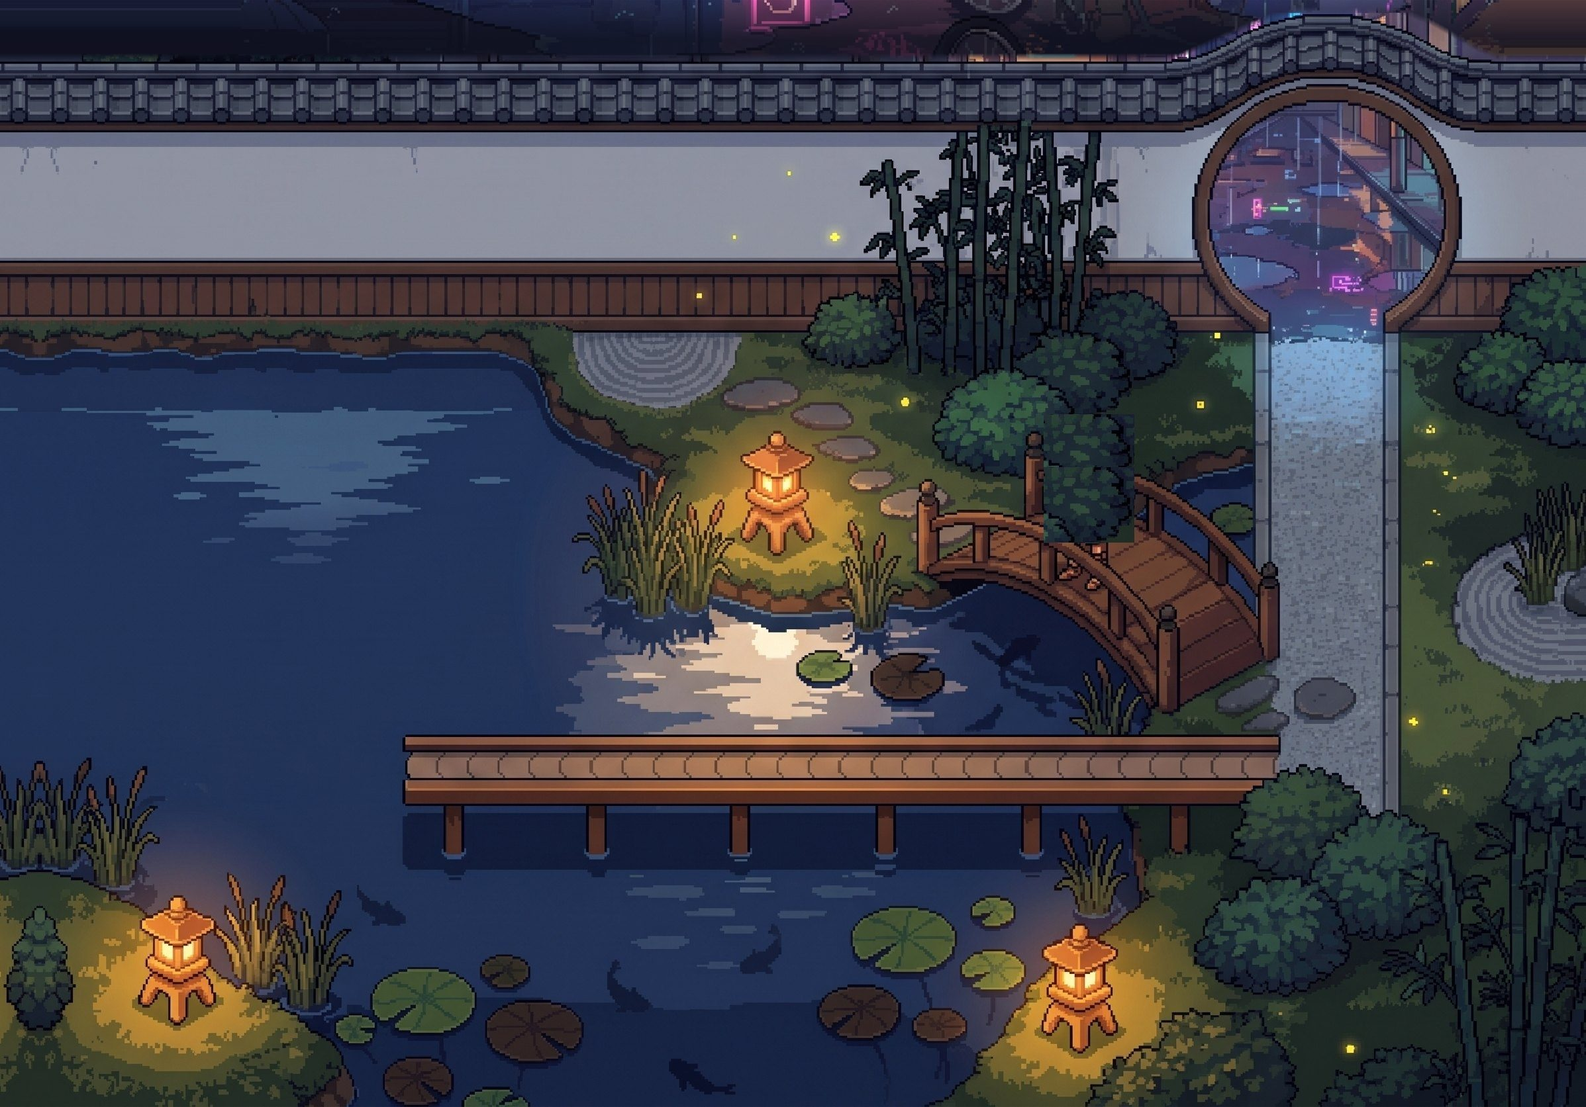
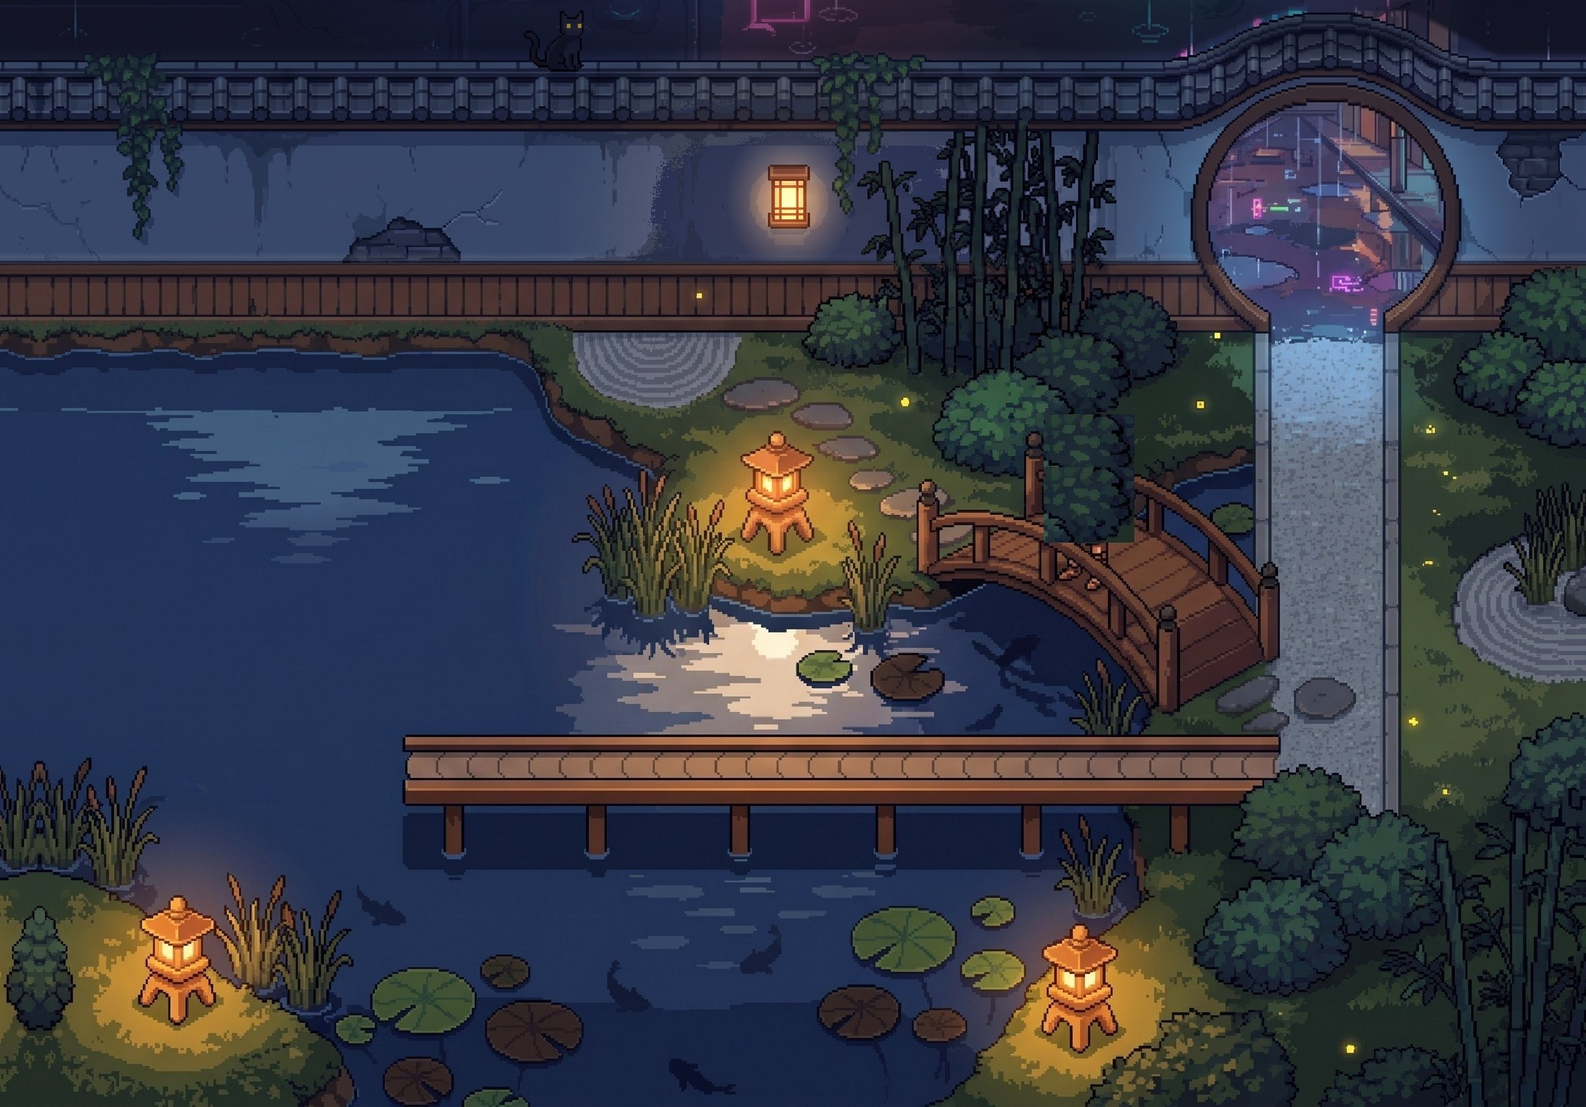
Smooth sushi-cam entry/exit, texture the garden wall, integrate cross-agent fixes

Changed region(s): [[0.0, 0.0, 1.0, 0.2487]]

diff --git a/restaurant/src/transitions/dining-kitchen.ts b/restaurant/src/transitions/dining-kitchen.ts
@@ -1,13 +1,16 @@
-import type { Api, TransitionDef } from "../engine/types";
-import { STAGE_W, STAGE_H } from "../engine/types";
-import { drawPov, ZW0, type Pov } from "./dining-kitchen/pov";
+import type { Api, Camera, TransitionDef } from "../engine/types";
+import { F, WPX, DOOR, drawPov, type Pov } from "./dining-kitchen/pov";
+import { layerCtx, dissolve } from "./dining-kitchen/dissolve";
 
 // dining -> kitchen: the "sushi cam". See dining-kitchen.md.
-//   0.00-0.16  dining camera dips to the belt (zoom toward the doors); POV slides up from below
-//              (camera bolted to a plate, doors ahead)
-//   0.08-0.80  ride at constant speed: plate ahead noses the doors open, they flap
+//   0.00-0.21  one camera: dining zooms onto the kitchen doors while the sushi cam,
+//              locked to the same door rect, cranes down to belt height; a
+//              bottom-first dithered pixel dissolve swaps dining -> POV (0.10-0.21)
+//   0.00-0.80  ride at constant speed: plate ahead noses the doors open, they flap
 //              back, our plate pushes through, kitchen towers over us
-//   0.80-1.00  un-bolt: camera rises, POV slides down out of frame, kitchen zooms out to 1
+//   0.78-1.00  un-bolt: camera rises (belt drops out of frame), a top-first
+//              dithered dissolve reveals the kitchen at the matching zoom (0.83-0.95),
+//              which then pulls back to the observer frame
 
 const smooth = (a: number, b: number, t: number) => {
   const x = Math.max(0, Math.min(1, (t - a) / (b - a)));
@@ -15,21 +18,55 @@ const smooth = (a: number, b: number, t: number) => {
 };
 const lerp = (a: number, b: number, k: number) => a + (b - a) * k;
 
-const T_POV0 = 0.08, T_POV1 = 0.8;
-const ZW_END = -80;
+/** Ride: zw is linear in t (constant speed): ZW_A at t=0 -> ZW_END at T_END. */
+const ZW_A = 283, ZW_END = -80, T_END = 0.8;
+const zwAt = (t: number) => ZW_A + (ZW_END - ZW_A) * (t / T_END);
+
+/** Entry dissolve window and crane height. */
+const IN0 = 0.1, IN1 = 0.21;
+const CRANE = 130;
+/** Exit dissolve window. */
+const OUT0 = 0.83, OUT1 = 0.95;
+
+/** Dining door (stage px in dining.jpg) and its size ratio to the POV door art. */
+const DD = { cx: 1475, top: 205, w: 280 };
+const DOOR_RATIO = (DOOR.x1 - DOOR.x0) / DD.w;
+
+/** Kitchen camera that lines kitchen.jpg up with kitchen-pov.jpg (tub centre-left, Jiro right). */
+const K_MATCH = { zoom: 2.0, cx: 1397, cy: 536 };
 
 export function povAt(t: number): Pov {
-  const k = Math.max(0, Math.min(1, (t - T_POV0) / (T_POV1 - T_POV0)));
-  const zw = ZW0 + (ZW_END - ZW0) * k; // linear: constant riding speed
+  const zw = zwAt(Math.min(t, 0.9));
   // Camera tilt (horizon) is eased; travel is not.
-  const tiltUp = smooth(0, 1, (ZW0 - zw) / (ZW0 - 150));
+  const tiltUp = smooth(0, 1, (300 - zw) / 150);
   const tiltDown = smooth(0, 1, (40 - zw) / 100);
-  const yh = lerp(lerp(707, 880, tiltUp), 566, tiltDown);
+  let yh = lerp(lerp(707, 880, tiltUp), 566, tiltDown);
   const rise = smooth(0, 1, (0 - zw) / 60);
-  const unbolt = smooth(0.76, 0.9, t);
-  const hc = 20 + 9 * rise + 90 * unbolt;
+  const unbolt = smooth(0.76, 0.93, t);
+  let hc = 20 + 9 * rise + 240 * unbolt;
+  // Crane down: extra height, horizon compensated so the door plane holds still
+  // on screen while the near counter and belt swing up from below.
+  const up = CRANE * (1 - smooth(0.02, IN1 + 0.02, t));
+  hc += up;
+  yh -= (up * F) / Math.max(zw, 40);
   return { zw, yh, hc };
 }
+
+/** Dining camera whose kitchen doors sit exactly on the POV's door rect. */
+function diningMatch(p: Pov): Camera {
+  const sc = (WPX * F) / p.zw;
+  const zoom = DOOR_RATIO * sc;
+  const topY = p.yh + ((p.hc - (DOOR.base - DOOR.y0) * WPX) * F) / p.zw;
+  // Door centred (as in the POV) unless that would show past the art's right edge.
+  const cx = Math.min(DD.cx, 1920 - 960 / zoom);
+  const cy = DD.top - (topY - 540) / zoom;
+  return { zoom, cx, cy };
+}
+
+function mixCam(a: Camera, b: Camera, k: number): Camera {
+  return { zoom: lerp(a.zoom ?? 1, b.zoom ?? 1, k), cx: lerp(a.cx ?? 960, b.cx ?? 960, k), cy: lerp(a.cy ?? 540, b.cy ?? 540, k) };
+}
+const ID: Camera = { zoom: 1, cx: 960, cy: 540 };
 
 export const diningKitchen: TransitionDef = {
   from: "dining",
@@ -37,38 +74,29 @@ export const diningKitchen: TransitionDef = {
   length: 2.0,
   route: "Sushi cam: we ride a plate through the swinging kitchen doors and look up at the kitchen from belt height",
   render(g: CanvasRenderingContext2D, t: number, now: number, api: Api) {
-    // The sushi cam slides up from below as we dip onto the belt, and slides
-    // down out of frame as the camera rises back to eye level (no ghosting).
-    const inK = smooth(0.03, 0.16, t), outK = smooth(0.8, 0.95, t);
-    const povY = (1 - inK) * STAGE_H + outK * STAGE_H * 1.12;
-    // 1. Dining: dip toward the belt near the doors.
-    if (t < 0.17) {
-      const k = smooth(0, 0.15, t);
-      if (k <= 0) api.drawScene("dining", g, now);
-      else api.drawScene("dining", g, now, { zoom: 1 + 2.4 * k, cx: lerp(960, 1480, k), cy: lerp(540, 800, k) });
-    }
-    // 2. Kitchen: pull back from belt height to the observer frame.
-    if (t > T_POV1 - 0.02) {
-      const k = smooth(T_POV1 - 0.02, 1, t);
-      if (k >= 1) api.drawScene("kitchen", g, now);
-      else api.drawScene("kitchen", g, now, { zoom: 2.6 - 1.6 * k, cx: lerp(1060, 960, k), cy: lerp(560, 540, k) });
-    }
-    // 3. Sushi cam on top.
-    if (povY < STAGE_H - 0.5) {
-      const p = povAt(t);
-      g.save();
-      if (povY > 0.5) {
-        // Soft shadow along the top edge sells the "camera moving" wipe.
-        const sh = g.createLinearGradient(0, povY - 140, 0, povY);
-        sh.addColorStop(0, "rgba(8,6,5,0)");
-        sh.addColorStop(1, "rgba(8,6,5,.75)");
-        g.fillStyle = sh;
-        g.fillRect(0, povY - 140, STAGE_W, 140);
-        g.beginPath(); g.rect(0, povY, STAGE_W, STAGE_H); g.clip();
-        g.translate(0, Math.round(povY));
+    const p = povAt(t);
+    const kIn = smooth(IN0, IN1, t), kOut = smooth(OUT0, OUT1, t);
+    if (t <= 0) { api.drawScene("dining", g, now); return; }
+    if (t >= 1) { api.drawScene("kitchen", g, now); return; }
+
+    if (kIn < 1) {
+      // Entry: dining camera eases from identity onto the door-matched camera.
+      const cam = mixCam(ID, diningMatch(p), smooth(0, IN0 + 0.02, t));
+      api.drawScene("dining", g, now, cam);
+      if (kIn > 0) {
+        drawPov(layerCtx(), p, now, api);
+        // Bottom first: the belt arrives before the doors change.
+        dissolve(g, kIn, (u, v) => 1 - v * 0.85 - 0.15 * Math.abs(u - 0.5));
       }
-      drawPov(g, p, now, api);
-      g.restore();
+      return;
     }
+    if (kOut <= 0) { drawPov(g, p, now, api); return; }
+    // Exit: POV rising; kitchen revealed top-first at the matching zoom, then pulled back.
+    drawPov(g, p, now, api);
+    const cam = mixCam(K_MATCH, ID, smooth(OUT0 + 0.05, 1, t));
+    const lg = layerCtx();
+    if (kOut >= 1) { api.drawScene("kitchen", g, now, cam); return; }
+    api.drawScene("kitchen", lg, now, cam);
+    dissolve(g, kOut, (u, v) => v * 0.85 + 0.15 * Math.abs(u - 0.5));
   },
 };

diff --git a/restaurant/src/transitions/dining-kitchen/dissolve.ts b/restaurant/src/transitions/dining-kitchen/dissolve.ts
@@ -1,0 +1,72 @@
+import { STAGE_W, STAGE_H } from "../../engine/types";
+
+// Ordered-dither (Bayer 8x8) pixel dissolve. A layer is drawn into an offscreen
+// canvas, masked with chunky dither cells, then composited over the frame.
+// A directional bias makes the dissolve travel (e.g. bottom-first) but the band
+// is wide and dithered, so there is never a straight seam.
+
+const CELL = 6; // stage px per dither cell (roughly the art's pixel size)
+const MW = Math.ceil(STAGE_W / CELL), MH = Math.ceil(STAGE_H / CELL);
+
+const B8: number[] = (() => {
+  // Recursive Bayer construction: 2x2 -> 4x4 -> 8x8.
+  let m = [[0, 2], [3, 1]];
+  while (m.length < 8) {
+    const n = m.length, o: number[][] = [];
+    for (let y = 0; y < n * 2; y++) {
+      o.push([]);
+      for (let x = 0; x < n * 2; x++) {
+        const q = [0, 2, 3, 1][(y >= n ? 2 : 0) + (x >= n ? 1 : 0)];
+        o[y].push(4 * m[y % n][x % n] + q);
+      }
+    }
+    m = o;
+  }
+  return m.flat().map((v) => (v + 0.5) / 64);
+})();
+
+let layer: HTMLCanvasElement | null = null;
+let mask: HTMLCanvasElement | null = null;
+let maskData: ImageData | null = null;
+
+/** Offscreen full-stage canvas to draw the incoming layer into. */
+export function layerCtx(): CanvasRenderingContext2D {
+  if (!layer) { layer = document.createElement("canvas"); layer.width = STAGE_W; layer.height = STAGE_H; }
+  const g = layer.getContext("2d")!;
+  g.setTransform(1, 0, 0, 1, 0, 0);
+  g.globalAlpha = 1;
+  g.globalCompositeOperation = "source-over";
+  g.clearRect(0, 0, STAGE_W, STAGE_H);
+  return g;
+}
+
+/**
+ * Composite the layer over g, showing a fraction k (0..1) of its dither cells.
+ * bias(u, v) in [0,1] (u, v = normalised screen position): lower = revealed earlier.
+ * w is how strongly the bias steers the order (0 = pure dither, 1 = pure wipe).
+ */
+export function dissolve(g: CanvasRenderingContext2D, k: number, bias: (u: number, v: number) => number, w = 0.55) {
+  if (!layer || k <= 0) return;
+  if (!mask) { mask = document.createElement("canvas"); mask.width = MW; mask.height = MH; }
+  const mg = mask.getContext("2d")!;
+  maskData ??= mg.createImageData(MW, MH);
+  const d = maskData.data;
+  for (let j = 0; j < MH; j++) {
+    for (let i = 0; i < MW; i++) {
+      const v = B8[(j & 7) * 8 + (i & 7)] * (1 - w) + bias(i / MW, j / MH) * w;
+      d[(j * MW + i) * 4 + 3] = v < k ? 255 : 0;
+    }
+  }
+  mg.putImageData(maskData, 0, 0);
+  const lg = layer.getContext("2d")!;
+  lg.save();
+  lg.globalCompositeOperation = "destination-in";
+  lg.imageSmoothingEnabled = false;
+  lg.drawImage(mask, 0, 0, MW * CELL, MH * CELL);
+  lg.restore();
+  g.save();
+  g.setTransform(1, 0, 0, 1, 0, 0);
+  g.globalAlpha = 1;
+  g.drawImage(layer, 0, 0);
+  g.restore();
+}

diff --git a/restaurant/src/scenes/dining.ts b/restaurant/src/scenes/dining.ts
@@ -77,7 +77,7 @@ export const dining: SceneDef = {
       g.fillRect(x - 10, y - 10, 20, 20);
     });
     g.restore();
-    // Porthole peek egg: two blue robot eyes in the right porthole.
+    // Porthole peek egg: the kitchen cat peers through the right porthole (no Jiro in this room).
     const pk = tnow() - peekT;
     if (pk < 2.8) {
       const [x, y] = PORTHOLES[1];
@@ -85,11 +85,14 @@ export const dining: SceneDef = {
       const yy = Math.round(y + 14 - rise * 12);
       g.save();
       g.beginPath(); g.arc(x, y, 24, 0, Math.PI * 2); g.clip();
-      g.fillStyle = "#b8703c"; g.fillRect(x - 24, yy - 12, 48, 40);
-      g.fillStyle = "#f3e6cf"; g.fillRect(x - 16, yy - 4, 32, 30);
+      g.fillStyle = "#c8742f"; g.fillRect(x - 18, yy - 12, 8, 8); g.fillRect(x + 10, yy - 12, 8, 8);
+      g.fillStyle = "#e0924a"; g.fillRect(x - 20, yy - 4, 40, 36);
+      g.fillStyle = "#b8612a"; g.fillRect(x - 4, yy - 4, 8, 6);
       const blink = pk > 1.5 && pk < 1.62;
-      g.fillStyle = "#5ff0ff";
-      if (!blink) { g.fillRect(x - 11, yy + 2, 7, 7); g.fillRect(x + 4, yy + 2, 7, 7); }
+      g.fillStyle = "#9be36b";
+      if (!blink) { g.fillRect(x - 12, yy + 4, 7, 7); g.fillRect(x + 5, yy + 4, 7, 7); }
+      g.fillStyle = "#101010";
+      if (!blink) { g.fillRect(x - 9, yy + 5, 2, 5); g.fillRect(x + 8, yy + 5, 2, 5); }
       g.restore();
     }
   },
@@ -103,7 +106,7 @@ export const dining: SceneDef = {
     PORTHOLES.forEach(([x, y]) => hotspot(el, x - 30, y - 30, 60, 60, "Porthole", () => {
       peekT = tnow();
       api.sfx("blip");
-      api.egg("dining-porthole", "Someone in the kitchen is checking whether you finished your nigiri.");
+      api.egg("dining-porthole", "The kitchen cat is checking whether you finished your nigiri.");
     }));
     hotspot(el, 1660, 360, 150, 210, "Plant", () => { api.sfx("pop"); api.egg("dining-plant", "The plant is a Monstera. It has been there since v0.1."); });
     hotspot(el, 598, 110, 58, 105, "Lantern", () => {

diff --git a/restaurant/src/transitions/street-pond.ts b/restaurant/src/transitions/street-pond.ts
@@ -21,6 +21,8 @@ const ART = { url: "art/tr/street-pond/garden.jpg", x: -360, y: 1052, w: 2395, h
 const WALL_TOP = 1073, WALL_BOT = 1530;
 const GATE = { x: 1644, y: 1357, rx: 180, ry: 172 };
 const LANE_X = 1652;
+/** Wall shadow band on the pavement, from the street's puddles down to the roof cap. */
+const SHADE_Y0 = 975, SHADE_Y1 = 1142;
 
 // Street loop geometry, read from the scene: dock at the loop's rear (rightmost) point.
 const loopPts = street.belt.pts;
@@ -172,6 +174,21 @@ export const streetPond: TransitionDef = {
     if (vy1 > ART.y && art.complete && art.naturalWidth) g.drawImage(art, ART.x, ART.y, ART.w, ART.h);
     if (vy1 > PY) g.drawImage(sceneBuf("b", "pond", now, api, 0, 90 * outP, 40 * outP), PX, PY);
     if (vy0 < STAGE_H) g.drawImage(sceneBuf("a", "street", now, api, 28 * inS, 0, 0), 0, 0);
+
+    // The wall's shadow on the wet pavement: fades in as the camera leaves the
+    // street frame and swallows the street art's puddle reflections at its bottom
+    // edge, so nothing upside-down meets the wall. Zero at t=0.
+    const shade = smooth(0.08, 0.3, t);
+    if (shade > 0 && vy0 < WALL_TOP + 80) {
+      const gr = g.createLinearGradient(0, SHADE_Y0, 0, SHADE_Y1);
+      gr.addColorStop(0, "rgba(8,10,22,0)");
+      gr.addColorStop(0.5, `rgba(8,10,22,${0.8 * shade})`);
+      gr.addColorStop(0.62, `rgba(8,10,22,${0.8 * shade})`);
+      // Lighter at the roof cap so the cat sitting on it stays readable.
+      gr.addColorStop(1, `rgba(8,10,22,${0.3 * shade})`);
+      g.fillStyle = gr;
+      g.fillRect(ART.x, SHADE_Y0, ART.w, SHADE_Y1 - SHADE_Y0);
+    }
 
     // The chute: unfolds from the cargo box, hidden behind the wall except through the gate.
     const unfold = smooth(0.02, 0.2, t);

diff --git a/restaurant/src/engine/belt.ts b/restaurant/src/engine/belt.ts
@@ -36,8 +36,11 @@ function bake(path: BeltPath): Baked {
   const p = out[out.length - 1];
   u += Math.hypot(xl - p.x, yl - p.y) / ((sl + p.s) / 2);
   out.push({ x: xl, y: yl, s: sl, u, nx: 0, ny: 0, a: 0 });
+  const last = out.length - 1;
   for (let i = 0; i < out.length; i++) {
-    const a = out[Math.max(0, i - 1)], b = out[Math.min(out.length - 1, i + 1)];
+    // Closed loops wrap neighbours across the join so the tread has no notch there.
+    const a = path.closed && i === 0 ? out[last - 1] : out[Math.max(0, i - 1)];
+    const b = path.closed && i === last ? out[1] : out[Math.min(last, i + 1)];
     const dx = b.x - a.x, dy = b.y - a.y, l = Math.hypot(dx, dy) || 1;
     out[i].nx = -dy / l; out[i].ny = dx / l; out[i].a = Math.atan2(dy, dx);
   }

diff --git a/restaurant/src/games/whack.ts b/restaurant/src/games/whack.ts
@@ -24,7 +24,7 @@ export function mountWhack(el: HTMLElement, api: Api) {
 
   const startBtn = html(el, `<button class="btn primary game-start">▶ Play Whack-a-Bug</button>`) as HTMLButtonElement;
   place(startBtn, 1300, 470);
-  const help = html(el, `<p class="whack-help">Whack the bugs, spare the duck. Click, tap or <kbd>1</kbd>–<kbd>8</kbd>.</p>`);
+  const help = html(el, `<p class="whack-help">Whack the bugs, spare the duck. Click, tap or <kbd>1</kbd>–<kbd>${HOLES.length}</kbd>.</p>`);
   place(help, 1300, 556);
   const hud = html(el, `
     <div class="whack-hud" hidden aria-live="polite">

diff --git a/restaurant/src/transitions/dining-kitchen.md b/restaurant/src/transitions/dining-kitchen.md
@@ -6,18 +6,21 @@
 
 | t | beat |
 |---|------|
-| 0 – 0.16 | dining zooms toward the belt near the doors (×3.4 around 1480,800); POV slides up from below (camera tilting down) |
-| 0.08 – 0.80 | POV ride. Door-plane distance falls linearly 300 → −80 world units (constant speed; the camera tilt is eased, the travel is not) |
-| ≈0.31 / 0.60 | duck plate pushes the doors open / our plate pushes them open again |
-| 0.80 – 1.0 | camera rises (eye height 29 → 119) and the POV slides down out of frame while the kitchen zooms out 2.6 → 1 |
+| 0 – 0.12 | dining camera eases from identity onto a camera locked to the POV door rect (zoom ≈ 1.6 × POV door scale, doors centred unless that would show past the art's right edge) |
+| 0.02 – 0.23 | sushi cam cranes down: eye height starts 130 higher, horizon compensated so the door plane holds still while the counter and belt swing up from below |
+| 0.10 – 0.21 | bottom-first ordered-dither pixel dissolve dining → POV (6 px cells, Bayer 8×8 + position bias; no seam) |
+| 0 – 0.80 | POV ride. Door-plane distance falls linearly 283 → −80 world units (constant speed; the camera tilt is eased, the travel is not) |
+| ≈0.24 / 0.57 | duck plate pushes the doors open / our plate pushes them open again |
+| 0.76 – 0.93 | un-bolt: eye height rises +240, so the near belt and plates drop out of frame and the belt narrows toward the vanishing point |
+| 0.83 – 0.95 | top-first pixel dissolve POV → kitchen at the matching camera `K_MATCH` (zoom 2.0 around 1397, 536: tub centre-left, Jiro right); kitchen pulls back to identity over 0.88 – 1.0 |
 
-**How it works:** `dining-kitchen/pov.ts` is a pinhole camera (F=500) on a plate. The belt tread, copper rails and wooden counter are mode-7 scanlines rendered at 1/4 resolution. The tread and the plates ahead ride with us, so they hold still. The rails' rivets and the counter joints stream past at `BELT_SPEED` plus the scroll travel. The door leaves are projected vertical strips of `doors.jpg`, hinged on the frame.
+**How it works:** `dining-kitchen/dissolve.ts` renders the incoming layer offscreen and masks it with chunky Bayer-dither cells (the same pixel look as the art) so the hand-offs read as one camera, not a split screen. `dining-kitchen/pov.ts` is a pinhole camera (F=500) on a plate. The belt tread, copper rails and wooden counter are mode-7 scanlines rendered at 1/4 resolution. The tread and the plates ahead ride with us, so they hold still. The rails' rivets and the counter joints stream past at `BELT_SPEED` plus the scroll travel. The door leaves are projected vertical strips of `doors.jpg`, hinged on the frame.
 
 **Art** (`public/art/tr/dining-kitchen/`, sources in `/tmp/dining-kitchen/src/`):
 - `doors.jpg`: the dining wall from belt height. The door opening is hard-coded as `DOOR` in `pov.ts`: x 738–1182, y 205–728, the leaf split at x 960, and the counter line at y 740. If you regenerate this image, update those numbers.
 - `kitchen-pov.jpg`: a worm's-eye view of the kitchen. Its vanishing point is hard-coded as `KVP` = (960, 566).
 
 **Scene dependencies (kept small):**
-- Dining: the zoom target is (1480, 800), the belt near the right-hand doors. The dining art should keep a double swinging door with round portholes on the right wall (currently about 1330–1650 × 200–520) and a belt running toward it along the bottom (y ≈ 824), so the POV doors read as the same doors. The dining art must not change the zoom math.
-- Kitchen: the pull-back starts at zoom 2.6 around (1060, 560) (the rice tub, pass shelf and Jiro). Keep Jiro on the right, the hangiri tub centre-left, and the belt entering from the left (about 700, 650). If Jiro or the tub move a lot, update `kitchen-pov.jpg` so they stay on the same sides.
+- Dining: `DD` in `dining-kitchen.ts` is the dining door (centre x 1475, top y 205, width 280; doors ≈ 1335–1620 × 205–550). The entry camera is solved each frame so these doors land on the POV door rect. If the dining doors move, update `DD`.
+- Kitchen: the dissolve lands on `K_MATCH` (zoom 2.0 around 1397, 536), which lines kitchen.jpg's tub (≈1154, 580) and Jiro's eyes (≈1567, 358) up with the same props in `kitchen-pov.jpg`. Keep Jiro on the right, the hangiri tub centre-left, and the belt entering from the left (about 700, 650). If Jiro or the tub move a lot, update `kitchen-pov.jpg` so they stay on the same sides.
 - Neither scene's `belt` data is read. The POV belt is its own world (belt 64 wide, plates 52, PLATE_GAP 150).

diff --git a/restaurant/src/transitions/street-pond.md b/restaurant/src/transitions/street-pond.md
@@ -5,12 +5,13 @@
 **Length:** 2.0 viewport heights.
 
 ## How it works
-- World space: street frame at (0,0), pond frame at (PX,PY) = (-351, 1665). The backdrop `public/art/tr/street-pond/garden.jpg` sits at (-360, 1052), 2395×1673. It holds the wall, the moon gate, the lane and the garden bank, and was outpainted from both scene frames.
+- World space: street frame at (0,0), pond frame at (PX,PY) = (-351, 1665). The backdrop `public/art/tr/street-pond/garden.jpg` sits at (-360, 1052), 2395×1673. It holds the wall, the moon gate, the lane and the garden bank, and was outpainted from both scene frames. The top strip (world y 1052–1140) is plain dark wet pavement with a black cat on the roof cap; the wall face is weathered plaster in blue moonlight shadow with ivy and a lit wall lantern (Gemini edit of rows 0–400, plaster darkened in post, gate interior kept from the original outpaint so GATE still lines up).
 - Scenes are rendered through `api.drawScene` into offscreen buffers. Their edges feather into the backdrop only while 0 < t < 1, so t=0 and t=1 are pixel-identical to the scenes (checked: mean diff < 0.2/255).
 - The chute is one open `BeltPath`. It starts at the loop's rightmost point (read from `street.belt.pts`) and ends at `pond.belt.pts[0]`, and it uses the pond width, plate size and scale 1 at the join. Its phase is `pathLength(CHUTE) + pond.phase` and its item key is `"pond"`, so every plate becomes the same pond plate at the same speed. Plates hop over the first 70 px after they leave the loop. The wall hides the chute except where it shows through the gate hole.
+- A wall-shadow gradient (SHADE_Y0–SHADE_Y1, world y 975–1142) fades in over t 0.08–0.3 on top of the street's bottom edge, so the street art's puddle reflections of the wheels don't read as an upside-down strip next to the wall. It is zero at t=0.
 - Camera: Hermite keyframes (t, cx, cy, zoom) with zero velocity at both ends. It zooms to 1.2 on the trike, cranes down over the wall and eases out to the pond frame.
 
 ## What the scene art must keep
-- **street:** the loop's rear (right) point at about (1611, 607). The column x ≈ 1640–1720, y 650–1080, right of the rear wheel, must stay clear for the chute. The bottom rows (y 990–1080) must stay wet pavement, because they are mirrored into the strip above the wall.
+- **street:** the loop's rear (right) point at about (1611, 607). The column x ≈ 1640–1720, y 650–1080, right of the rear wheel, must stay clear for the chute. The bottom rows (y 990–1080) must stay wet pavement; they meet the backdrop's plain pavement strip under the wall shadow.
 - **pond:** the pier belt enters from the right at y ≈ 530 (pond.belt.pts[0] = (1950, 530)). The pier deck must reach the right edge at y ≈ 495–600. The top edge must keep water on the left, garden in the middle and the bridge on the right, because that is what the backdrop was painted to meet. Jiro on the bridge at about (1650, 120) matches the backdrop.
 - If either scene is repainted with a different layout, regenerate `garden.jpg` with the same outpaint (street at the top, pond at (-351, 1665)), then re-measure GATE and LANE_X.
